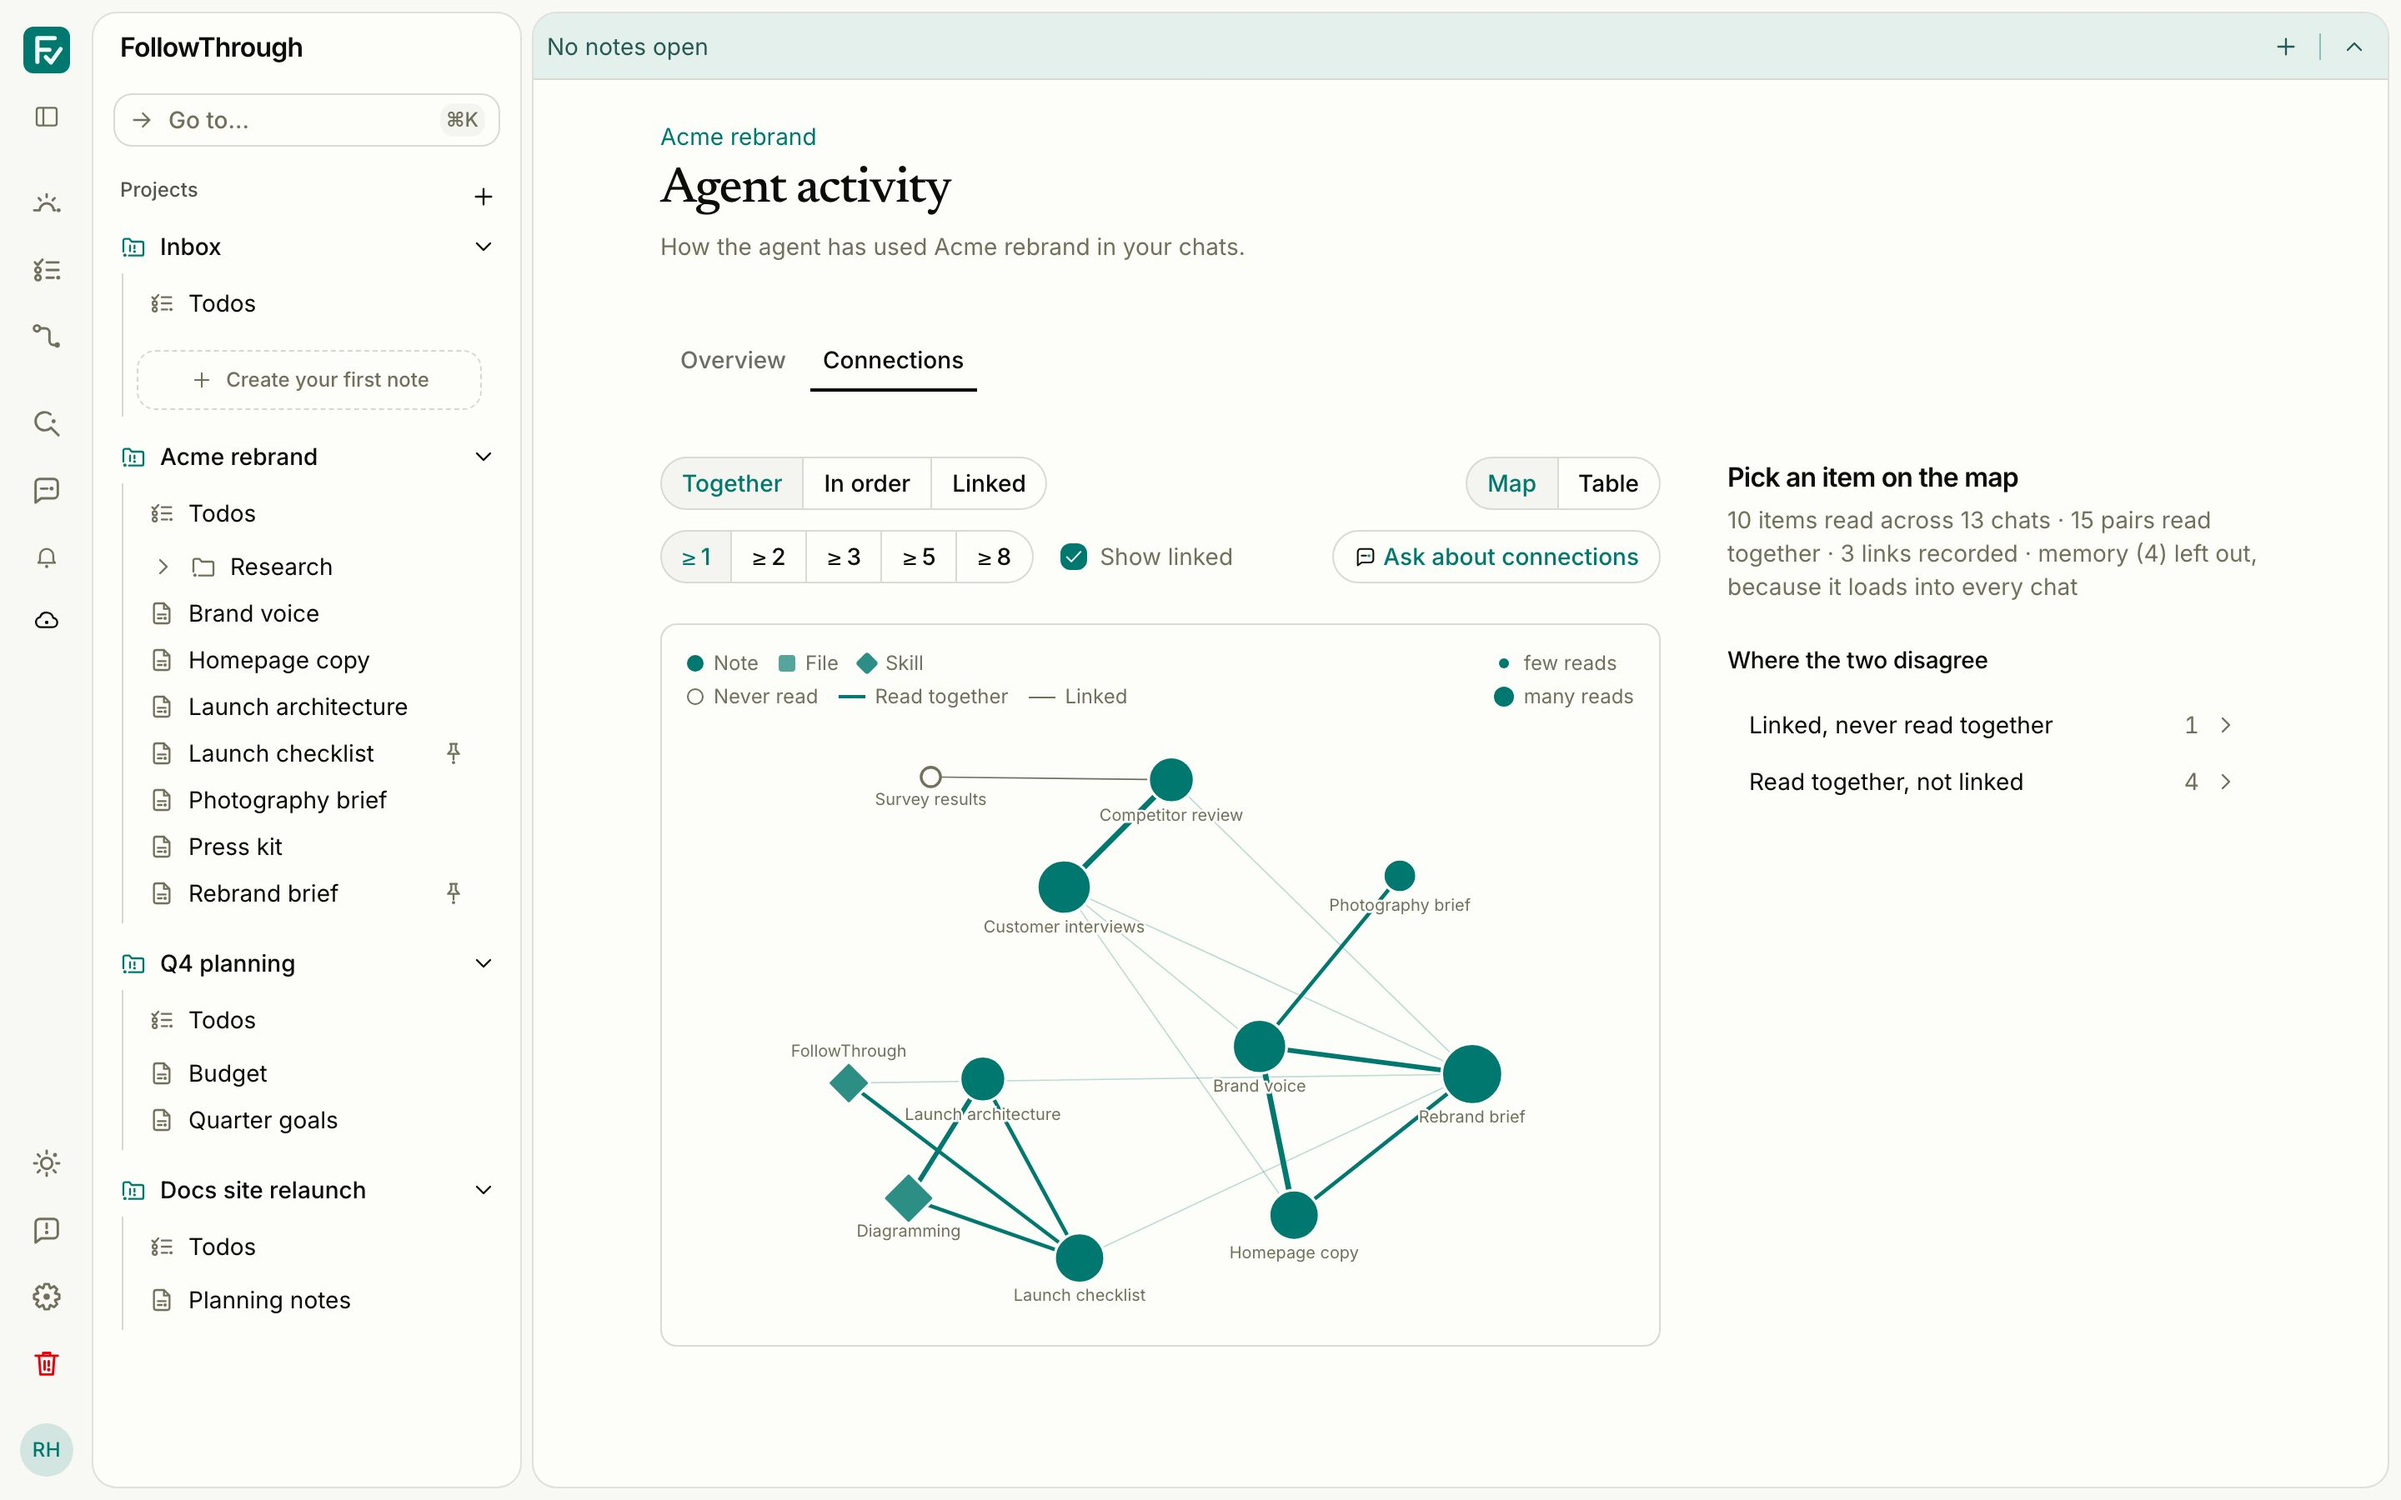
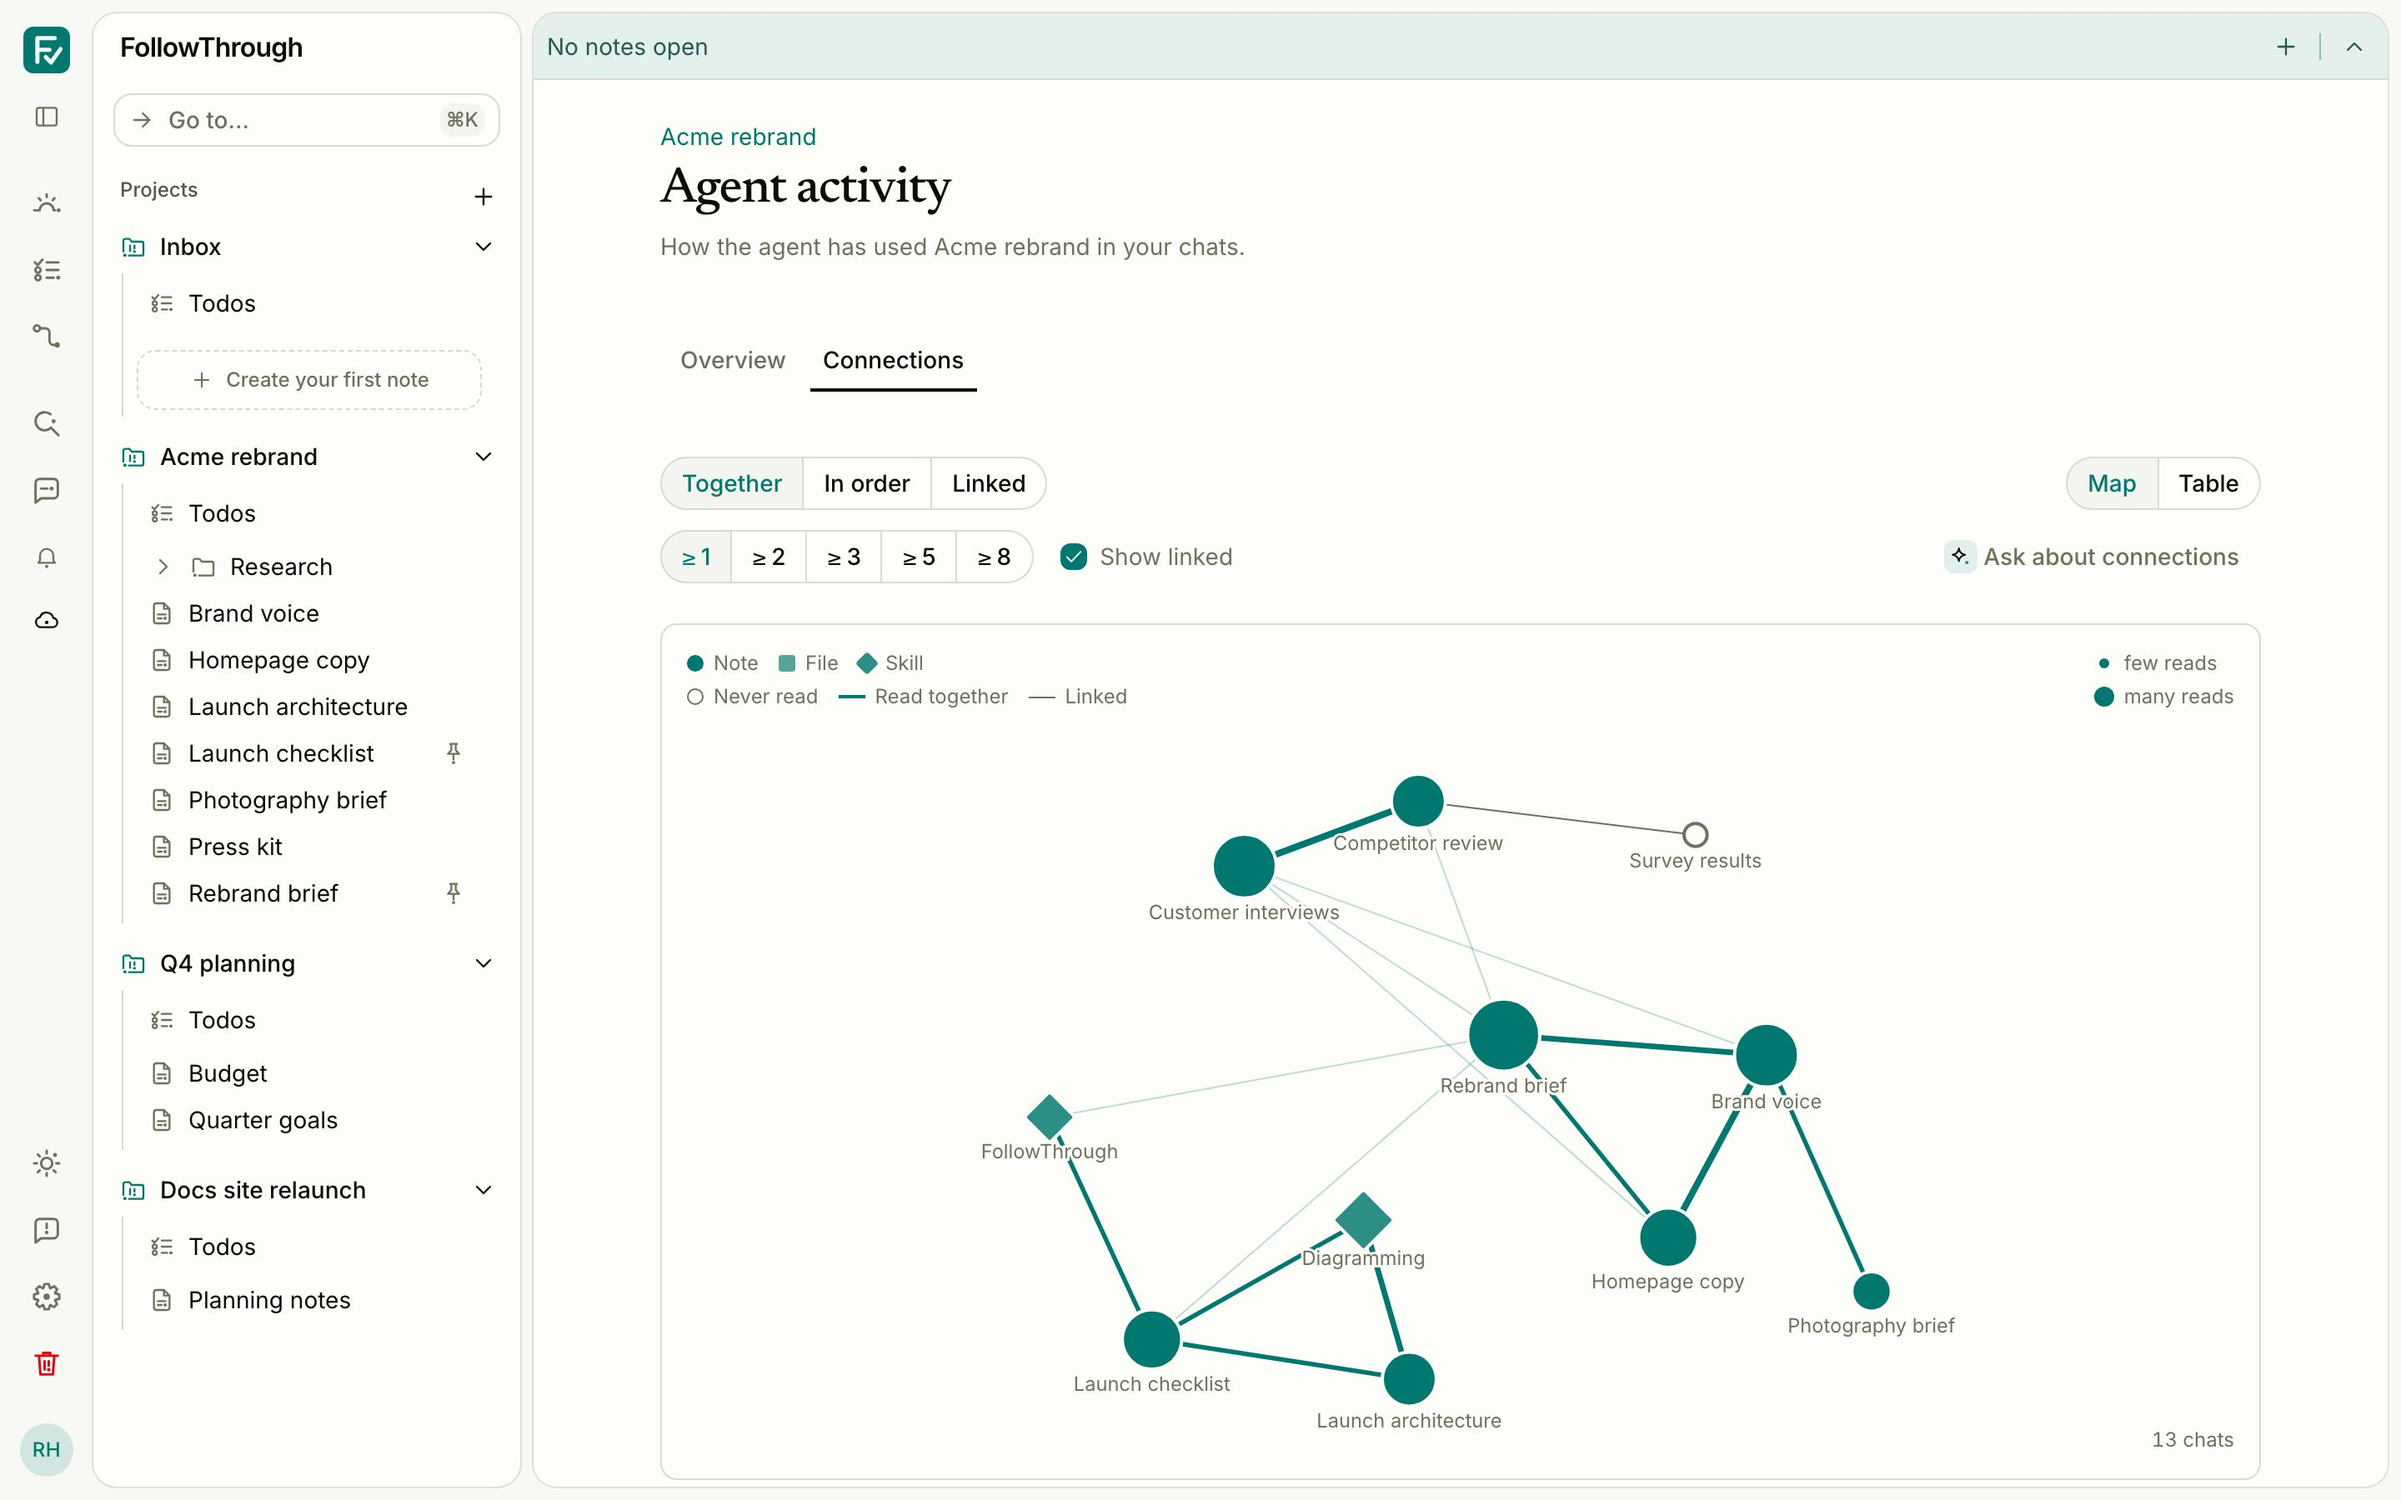
fix(context-usage): match the ask button to the inline agent action and fit the map
Use the sparkle icon and the inline variant that Ask about this note uses.
Cap the map's height so a full-width map stays on screen.

diff --git a/src/lib/components/projects/context-usage/connections/connections-tab.svelte b/src/lib/components/projects/context-usage/connections/connections-tab.svelte
@@ -15,7 +15,7 @@
 		{userFacingMessage(connections.error, 'Connections could not be loaded.')}
 	</p>
 {:else if !connections.current}
-	<Skeleton class="aspect-[18/13] w-full" aria-busy="true" />
+	<Skeleton class="aspect-[18/13] max-h-128 w-full" aria-busy="true" />
 {:else if connections.current.nodes.length === 0}
 	<p class="text-sm text-muted-foreground">
 		The agent hasn't read anything here yet, and nothing here is linked. Ask about this project in a

diff --git a/src/lib/components/projects/context-usage/connections/connections-graph.svelte b/src/lib/components/projects/context-usage/connections/connections-graph.svelte
@@ -116,7 +116,7 @@
 
 <!-- Below the width where labels stay legible the map keeps that width and scrolls sideways. -->
 <div class="w-full overflow-x-auto rounded-lg border border-border">
-	<div class="aspect-[18/13] w-full min-w-128">
+	<div class="aspect-[18/13] max-h-128 w-full min-w-128">
 		<Chart>
 			<Svg viewBox="0 0 {GRAPH_WIDTH} {GRAPH_HEIGHT}">
 				<!-- Clicking empty space lets go of the pinned item. -->

diff --git a/src/lib/components/agent/agent-actions.ts b/src/lib/components/agent/agent-actions.ts
@@ -88,7 +88,7 @@ export const agentActions: Record<AgentActionKey, AgentActionSpec> = {
 	connectionsAsk: {
 		label: 'Ask about connections',
 		prompt: 'Explain what gets read together here',
-		icon: Icon.Chat
+		icon: Icon.Suggestion
 	},
 	projectDistil: {
 		label: 'Distil memory',

diff --git a/src/lib/components/projects/context-usage/connections/connections-ask.svelte b/src/lib/components/projects/context-usage/connections/connections-ask.svelte
@@ -44,7 +44,6 @@
 
 <AgentAction
 	action={agentActions.connectionsAsk}
-	variant="outline"
 	onclick={(trigger) =>
 		onask(
 			{
